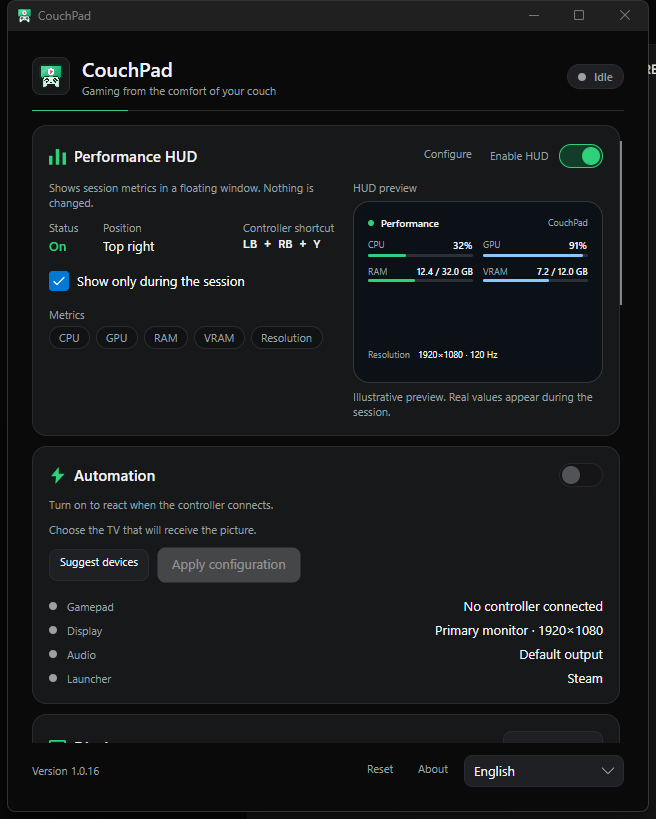
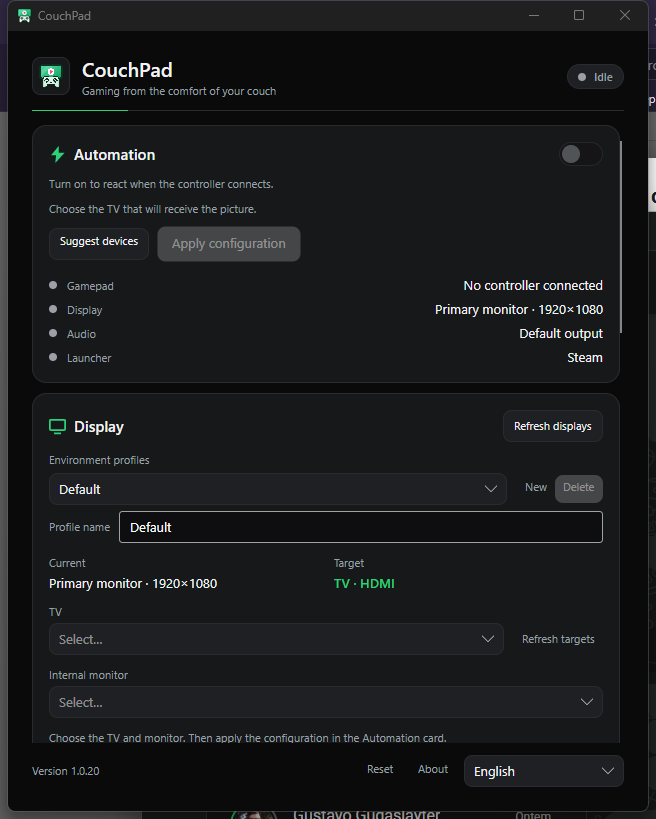
docs: refresh screenshots without HUD

diff --git a/docs/screenshots/README.md b/docs/screenshots/README.md
@@ -1,8 +1,9 @@
 # Screenshots oficiais — P7a
 
-- Data: 2026-11-16
-- Estado: **capturas atualizadas após a 1.0.16**; aceite final pendente
-- Versão exibida: `1.0.16`
+- Data: 2026-11-18
+- Versão exibida: `1.0.20`
+- Estado: **capturas refeitas na 1.0.20**; aceite final pendente
+- Shell: 8 cards, sem card de monitoramento de desempenho (removido na 1.0.20)
 - Simulação: display/áudio sem escrita real; seletores vazios de propósito
 - Leitor de tela: validação manual ainda pendente (ver checklist)
 
@@ -15,10 +16,20 @@
 | `p7a-2col-en.png` | 780 DIP, 2 colunas | inglês |
 | `p7a-1col-en.png` | 640 DIP, 1 coluna | inglês |
 
+## Layout
+
+- 8 cards: Automação, Display, Gamepad, Combinação, Contagem regressiva,
+  Parâmetros, Transição e Launchers. Não há card, overlay nem modal de
+  monitoramento de desempenho.
+- As larguras de cliente de 1004, 764 e 640 px correspondem a 3, 2 e 1 coluna
+  de cards, respectivamente.
+- Em 1020×780 o conteúdo usa a barra de rolagem; as capturas mostram o topo da
+  tela.
+
 ## Notas
 
 - As capturas usam settings seguros de simulação; `AllowDisplayWrites` e
-  `AllowAudioWrites` ficam desligados.
+  `AllowAudioWrites` ficam desligados, com automação desativada.
 - A seção **Perfis de ambiente** aparece no card Display, com perfil padrão,
   criação, renomeação e exclusão. O perfil ativo é o mesmo usado pelo startup.
 - O expander **Diagnóstico da identificação** mostra a decisão de TV, monitor
@@ -29,35 +40,12 @@
 - O tema é escuro; não há captura de tema claro.
 - O ícone/janela e os assets são originais do CouchPad.
 - A largura é a da janela configurada; a imagem inclui a moldura do Windows.
-- Em 1020×780 o conteúdo usa a barra de rolagem; as capturas mostram o topo da
-  tela. A ordem de foco foi validada via UIAutomation em 3/2/1 colunas.
+- As capturas usam o executável instalado de `1.0.20`; a publicação ainda está
+  pendente.
 - A validação com Narrator/NVDA não foi executada nesta máquina.
-- As capturas usam o executável instalado de `1.0.16`; a publicação ainda está pendente.
 
 ## Concept de redesign (não implementado)
 
 - `couchpad-modern-concept.png` e `couchpad-modern-concept.html`: exploração
   visual com cards de vidro, tipografia mais forte, prévia da TV e diagnóstico
   em destaque. **Não representa a UI atual** e não foi implementado no App.
-- `couchpad-performance-hud-concept.png` e
-  `couchpad-performance-hud-concept.html`: concept do card **HUD de
-  desempenho**, com métricas selecionáveis, atalho LB+RB+Y e prévia do HUD.
-  Aprovado para implementação em 2026-11-17; implementado na 1.0.14. Plano em
-  `docs/roadmap.md`.
-
-## HUD de desempenho — implementação 1.0.14/1.0.15
-
-- `hud-fase1-overlay.png`: HUD instalado em simulação, com CPU, GPU, RAM, VRAM,
-  processo e resolução; barras de GPU/VRAM corrigidas na 1.0.15.
-- Capturas `p7a-*` da 1.0.16 mostram o novo shell, com o card HUD em linha
-  inteira na primeira tela, nos três breakpoints e nos dois idiomas.
-- `hud-fase1-settings.png`: modal de configuração com métricas, atalho,
-  aparência e prévia.
-- `hud-fase2-overlay.png`: overlay em simulação com a métrica **FPS** ativa
-  (Fase 2, RTSS shared memory); os demais campos seguem o HUD da Fase 1.
-- `hud-fase2-card.png`: card HUD com chip/prévia de FPS, após o redesenho do
-  shell da 1.0.16.
-- As duas capturas de Fase 2 são de simulação; o journal de simulação foi
-  zerado depois da captura.
-- `couchpad-performance-hud-concept.png` e `.html`: concept original aprovado;
-  a implementação mantém a mesma direção visual.
